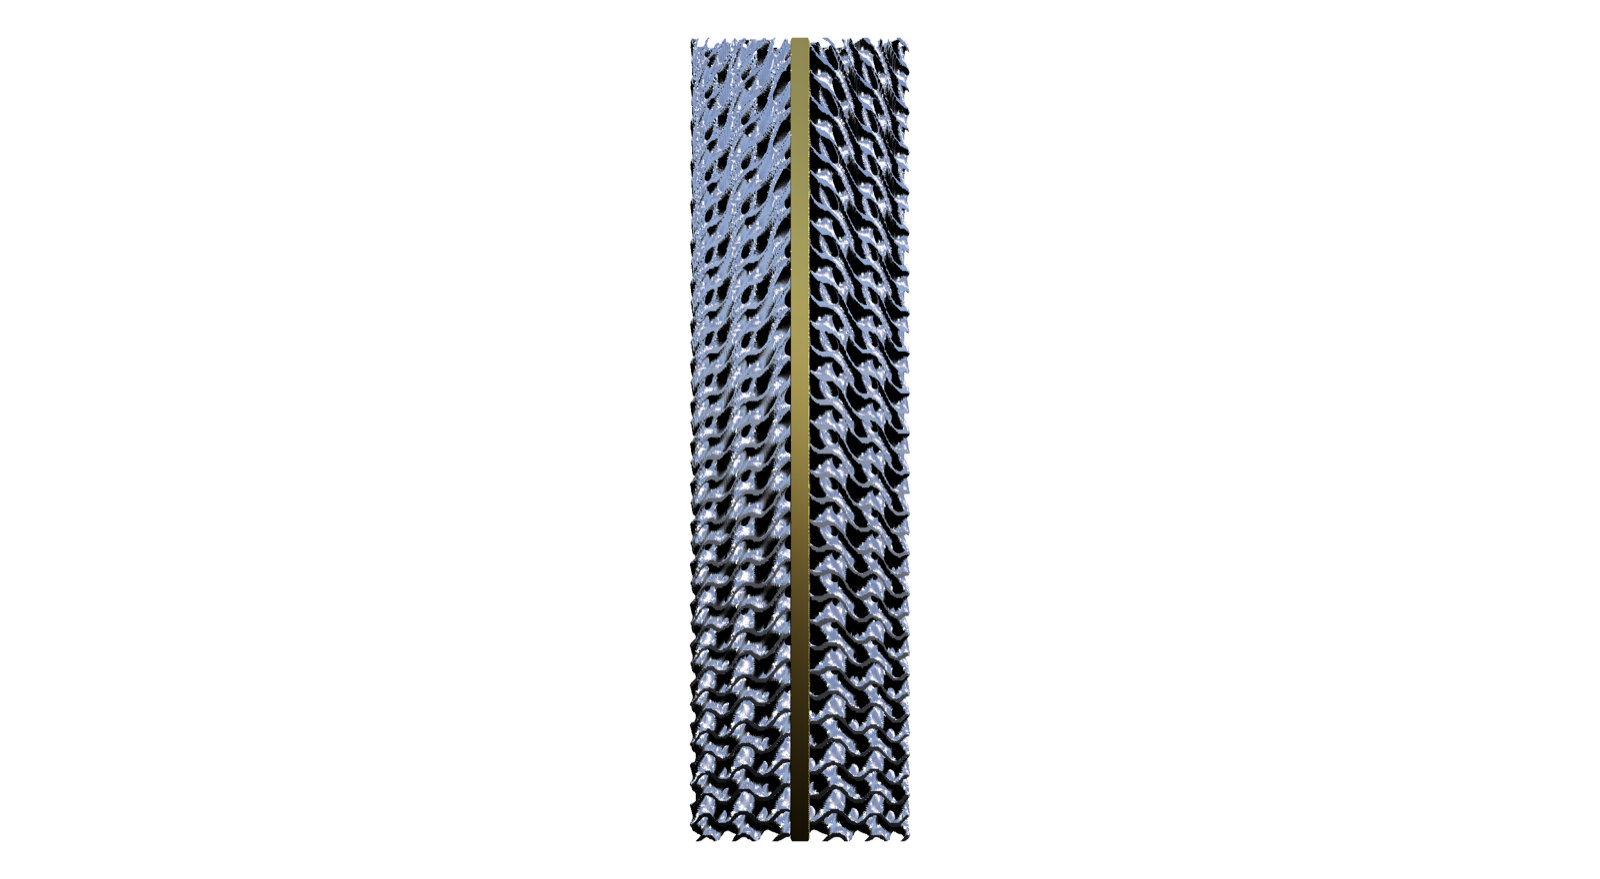
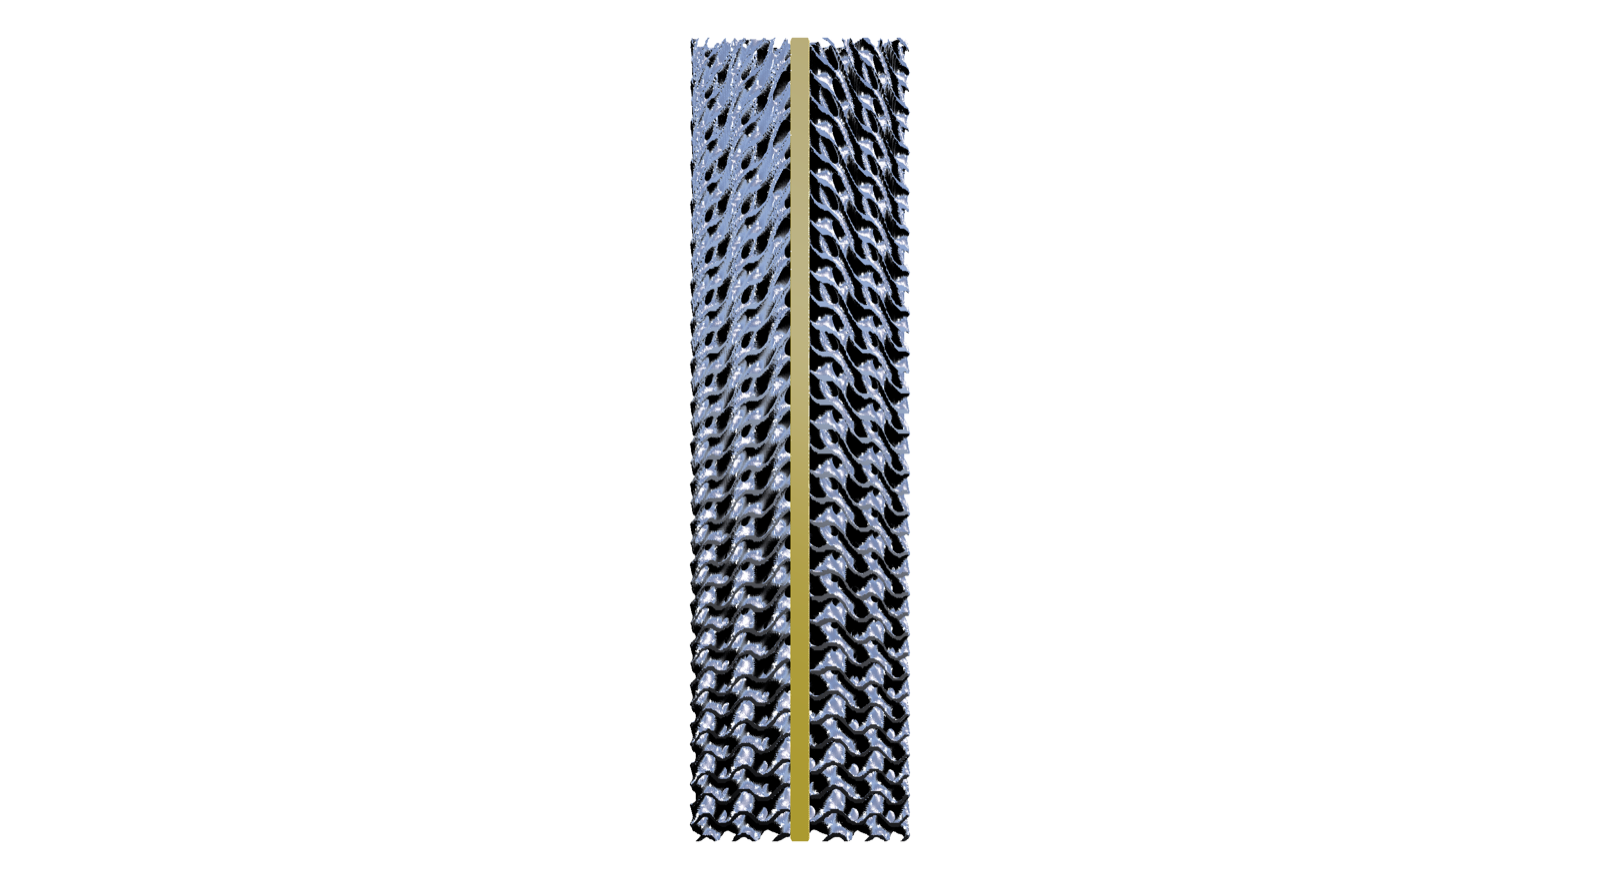
feat(cad): full bus-path through-rod in the axial stack + section reveal
Founder caught it: the per-part anode rod stops at the gyroid; the actual bus is the rod
threading the WHOLE stack — anode → PEEK gap → cathode channel → flange-top pogo pad →
capsule. Model it where it belongs (the assembly):
- AxialStack.Build: a Ø(bus) through-rod from z=0 to the flange top (OverallStackLength),
  added to Merged + exposed (AxialStackVoxels.Bus) for the section colour. voxConstruct.
- section anchor_axial_stack: silver stack + gold through-rod, cut to the −X half, Right
  camera → the bus path reads from the anode up through the cathode to the pad.
- brighter flat-amber rod material (visible in low light); gallery gets the stack-section
  PNG + render_gallery.sh renders it.
dotnet build 0 errors, 55 tests pass.

Changed region(s): [[0.4688, 0.0307, 0.5312, 0.9522]]

diff --git a/tools/cad/src/SilkenCad/Program.cs b/tools/cad/src/SilkenCad/Program.cs
@@ -322,10 +322,34 @@ internal static class Program
                 {
                     Voxels voxRod = Zone1Anode.BusRod(acem);
                     voxRod.BoolIntersect(voxHalf);
-                    oV.SetGroupMaterial(1, new ColorFloat(0.92f, 0.62f, 0.13f), 0.9f, 0.3f);  // gold rod core
+                    oV.SetGroupMaterial(1, new ColorFloat(1.0f, 0.72f, 0.05f), 0.25f, 0.7f);  // gold rod core
                     oV.Add(voxRod, 1);
                 }
                 oV.qOrientation = oV.qOrientationRight;   // look straight at the +X cut face
+            }
+            else if (bSection && strKind == "anchor_axial_stack")
+            {
+                // Reveal the FULL bus PATH: cut the assembled stack to the −X half + colour the through-rod
+                // gold → the monolithic bus runs from the anode bottom, up the PEEK gap, through the cathode
+                // channel, to the flange-top pogo pad (01_01 §1.4). Silver stack (zones) + gold through-rod.
+                AxialStackVoxels s = AxialStack.Build(Cem.Parse<AnchorAxialStackCem>(strJson));
+                BBox3 bb = s.Merged.oCalculateBoundingBox();
+                Vector3 sz = bb.vecSize(), ctr = bb.vecCenter();
+                Voxels voxHalf = new BaseBox(new LocalFrame(new Vector3(bb.vecMin.X + (sz.X / 4f), ctr.Y, bb.vecMin.Z)),
+                    sz.Z, sz.X / 2f, sz.Y).voxConstruct();
+                Voxels voxStack = new(s.Zone1);
+                voxStack.BoolAdd(s.Zone2);
+                voxStack.BoolAdd(s.Capsule);
+                voxStack.BoolIntersect(voxHalf);
+                oV.SetGroupMaterial(0, new ColorFloat(0.72f, 0.74f, 0.78f), 0.85f, 0.35f);  // Ti-silver stack
+                oV.Add(voxStack, 0);
+                if (s.Bus is { } voxBus)
+                {
+                    voxBus.BoolIntersect(voxHalf);
+                    oV.SetGroupMaterial(1, new ColorFloat(1.0f, 0.72f, 0.05f), 0.25f, 0.7f);  // gold through-rod
+                    oV.Add(voxBus, 1);
+                }
+                oV.qOrientation = oV.qOrientationRight;
             }
             else
             {

diff --git a/tools/cad/src/SilkenCad/AxialStack.cs b/tools/cad/src/SilkenCad/AxialStack.cs
@@ -80,7 +80,18 @@ internal static class AxialStack
         Voxels voxMerged = new(voxZone1);
         voxMerged.BoolAdd(voxZone2);
         voxMerged.BoolAdd(voxCapsule);
-        return new AxialStackVoxels(voxMerged, voxZone1, voxZone2, voxCapsule);
+
+        // The FULL monolithic bus rod (01_01 §1.4): a Ø(bus) core from the anode bottom (z=0) up through
+        // the PEEK gap + the cathode channel to the flange-top pogo pad — the actual anode V−/GND path to
+        // the capsule. It is the solid core inside the Ø11 anode, then a free rod threading the cathode
+        // channel (Ø1.3, isolated by the liner). voxConstruct (gotcha #9). Kept apart for the section colour.
+        Voxels? voxBus = null;
+        if (cem.Zone1.BusRodDiameterMm > 0f)
+        {
+            voxBus = new BaseCylinder(new LocalFrame(), OverallStackLengthMm(cem), cem.Zone1.BusRodDiameterMm / 2f).voxConstruct();
+            voxMerged.BoolAdd(voxBus);
+        }
+        return new AxialStackVoxels(voxMerged, voxZone1, voxZone2, voxCapsule, voxBus);
     }
 }
 
@@ -89,4 +100,4 @@ internal static class AxialStack
 // = 0 (anode Ø11 and bore Ø11 are line-to-line → surfaces TOUCH but volumes don't overlap; real press-fit
 // is +interference on the bench); sleeve∩capsule ≈ a thin shell = the flange SHOULDER (Ø25 disc) resting
 // on the sleeve TOP face (Ø15), NOT the shank — the shank Ø9 floats free in the bore Ø11 (the F1 clearance).
-internal sealed record AxialStackVoxels(Voxels Merged, Voxels Zone1, Voxels Zone2, Voxels Capsule);
+internal sealed record AxialStackVoxels(Voxels Merged, Voxels Zone1, Voxels Zone2, Voxels Capsule, Voxels? Bus = null);

diff --git a/docs/images/cad/README.md b/docs/images/cad/README.md
@@ -11,7 +11,8 @@ fundraising / README / wiki. Rebuild any time: **`tools/cad/scripts/render_galle
 | [`cathode_flange.drawing.svg`](cathode_flange.drawing.svg) | Деталь 3 cathode flange drawing (Ø25 + GND pad + PEEK iso-ring + 3× bayonet, `02_02 §1.2`) | `draw cem/cathode_flange.json` |
 | `cathode_flange.png` | Cathode flange 3D render | `render cem/cathode_flange.json` |
 | `anchor_zone1_pine.png` | Zone-1 gyroid anode — the ажурна Ti TPMS structure (pine SKU, `01_01 §5`) | `render cem/anchor_zone1.pine.json` |
-| `anchor_zone1_pine_section.png` | Longitudinal **cutaway**: the **monolithic bus rod** (gold core) down the centre of the gyroid annulus (`01_01 §1.4`, HW.34) | `section cem/anchor_zone1.pine.json` |
+| `anchor_zone1_pine_section.png` | Longitudinal **cutaway** (anode close-up): the **monolithic bus rod** (gold core) down the centre of the gyroid annulus (`01_01 §1.4`, HW.34) | `section cem/anchor_zone1.pine.json` |
+| `anchor_axial_stack_section.png` | **Full bus PATH cutaway**: the rod (gold) runs from the anode, up the PEEK gap, through the cathode channel, to the flange-top pogo pad → the capsule (`01_01 §1.4`) | `section cem/anchor_axial_stack.json` |
 | `anchor_assembly.png` | Capsule-end assembly (cathode flange ↔ PEEK radome, `02_02 §4.4`) | `render cem/anchor_assembly.json` |
 
 - **Drawings** = SVG (vector — GitHub renders inline; the factory DXF is produced alongside by `draw`, but
